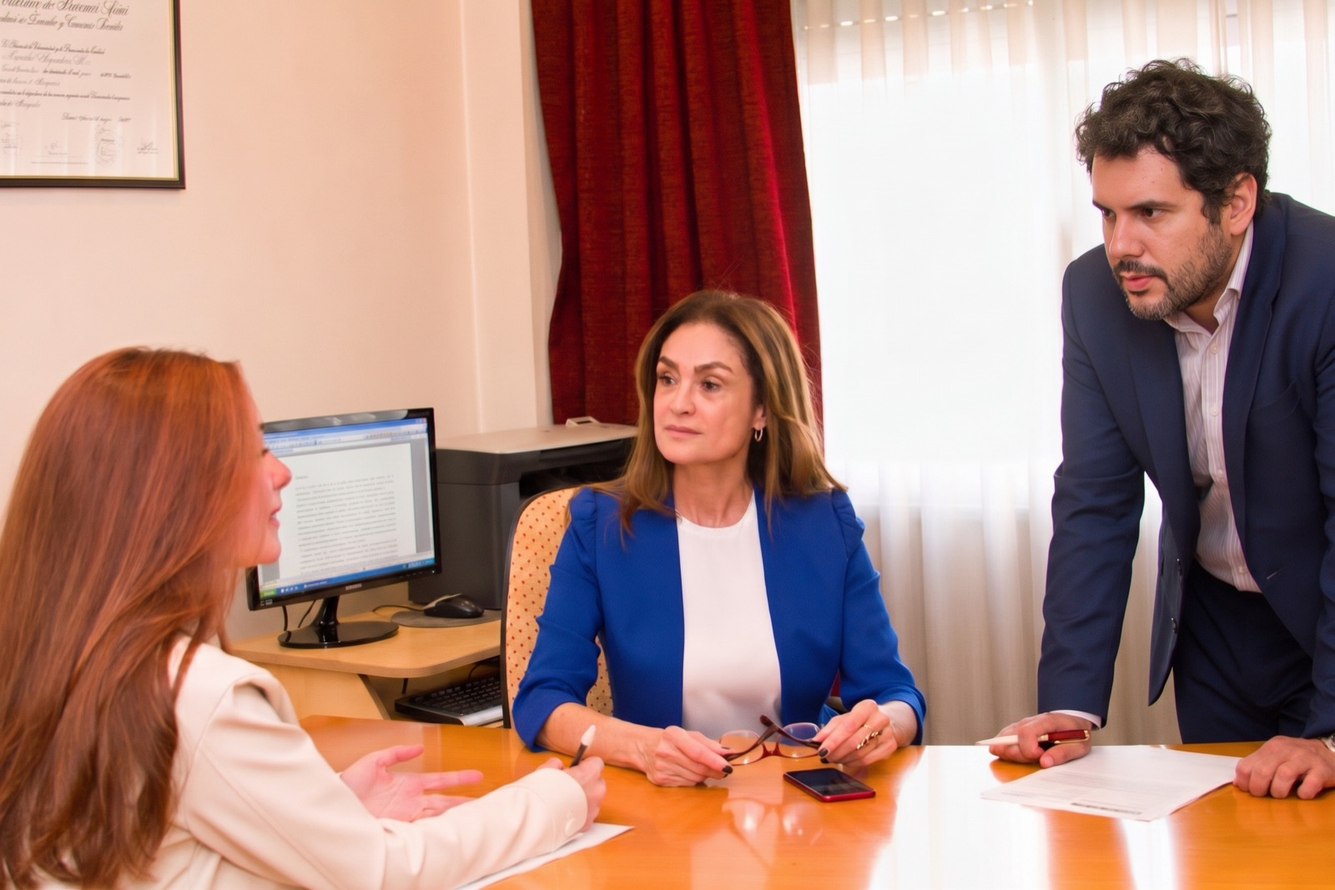
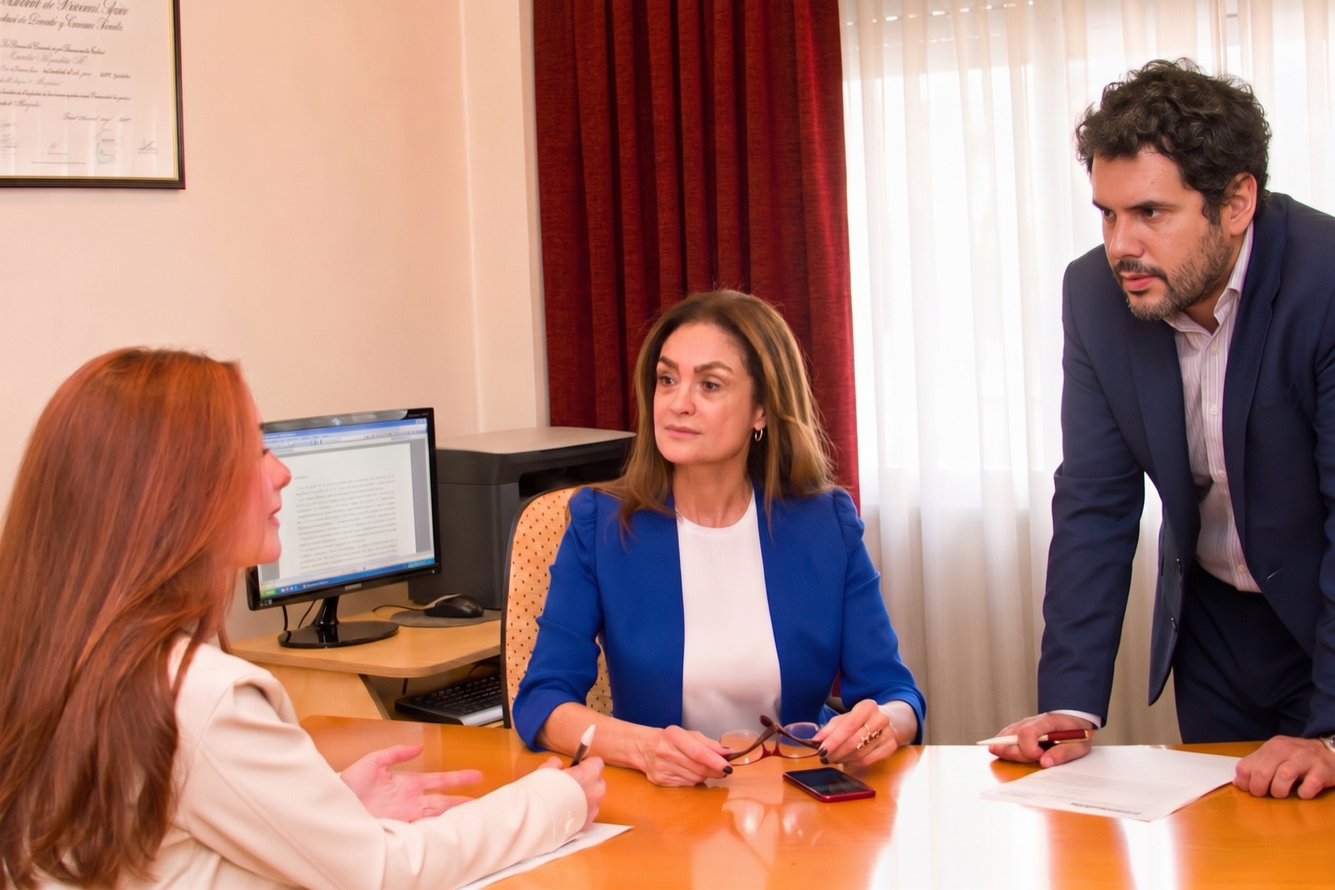
Estudio Ali B: solo WhatsApp al celular, foto de reunion nueva
El fijo (011) 4569-0939 ya no existe. Fuera todos los links tel:, los
botones Llamar y las menciones de telefono: la unica via de contacto es
WhatsApp. El numero pasa a formato celular (5491145690939, con el 9).
Foto de la reunion reemplazada por la ultima version.
La A esta descartada: solo se le corrigio el numero para no dejarla con
links rotos en produccion.

diff --git a/demos/estudio-ali/b/index.html b/demos/estudio-ali/b/index.html
@@ -265,7 +265,7 @@ footer.pie a{color:var(--ink);text-decoration:none}
 <header><div class="wrap">
   <a class="logo" href="#"><img class="sello" src="/demos/estudio-ali/fotos/isologo.jpg" alt="Estudio Jurídico Ali &amp; Asociados"><span>Estudio Ali &amp; Asociados<small>Derecho Laboral · A.R.T</small></span></a>
   <nav class="menu"><a href="#areas">Áreas de práctica</a><a href="#acerca">Acerca de</a><a href="#titular">Titular</a><a href="#sedes">Sedes</a></nav>
-  <a class="btn wsp" href="https://wa.me/541145690939?text=Hola%2C%20quiero%20hacer%20una%20consulta." target="_blank" rel="noopener">Consultar</a>
+  <a class="btn wsp" href="https://wa.me/5491145690939?text=Hola%2C%20quiero%20hacer%20una%20consulta." target="_blank" rel="noopener">Consultar</a>
 </div></header>
 <main>
 <div class="wrap">
@@ -274,7 +274,7 @@ footer.pie a{color:var(--ink);text-decoration:none}
     <span class="chip"><i></i>Consultas gratuitas para los trabajadores</span>
     <h1>Protegiendo tus derechos laborales <span>con experiencia y dedicación.</span></h1>
     <p class="lead">Estudio Jurídico Ali &amp; Asociados, especializado en Derecho Laboral y A.R.T.</p>
-    <div class="acciones"><a class="btn wsp" href="https://wa.me/541145690939?text=Hola%2C%20quiero%20hacer%20una%20consulta." target="_blank" rel="noopener"><svg viewBox="0 0 32 32"><path d="M16 3C9.4 3 4 8.3 4 14.9c0 2.1.6 4.1 1.6 5.9L4 29l8.4-1.6c1.7.9 3.6 1.4 5.6 1.4 6.6 0 12-5.3 12-11.9S22.6 3 16 3zm0 21.8c-1.8 0-3.5-.5-5-1.3l-.4-.2-5 1 1-4.8-.2-.4c-1-1.6-1.5-3.4-1.5-5.2 0-5.5 4.5-9.9 10-9.9s10 4.4 10 9.9-4.4 9.9-9.9 9.9zm5.5-7.4c-.3-.2-1.8-.9-2-1-.3-.1-.5-.2-.7.2-.2.3-.8 1-.9 1.2-.2.2-.3.2-.6.1-.3-.2-1.3-.5-2.4-1.5-.9-.8-1.5-1.8-1.7-2.1-.2-.3 0-.5.1-.6l.5-.5c.1-.2.2-.3.3-.5.1-.2 0-.4 0-.5l-1-2.3c-.2-.6-.5-.5-.7-.5h-.6c-.2 0-.5.1-.8.4-.3.3-1 1-1 2.5s1.1 2.9 1.2 3.1c.2.2 2.1 3.2 5.1 4.5.7.3 1.3.5 1.7.6.7.2 1.4.2 1.9.1.6-.1 1.8-.7 2-1.4.3-.7.3-1.3.2-1.4-.1-.1-.3-.2-.6-.4z"/></svg>Escribir por WhatsApp</a><span class="o">o llamá al <a href="tel:+541145690939">(011) 4569-0939</a></span></div>
+    <div class="acciones"><a class="btn wsp" href="https://wa.me/5491145690939?text=Hola%2C%20quiero%20hacer%20una%20consulta." target="_blank" rel="noopener"><svg viewBox="0 0 32 32"><path d="M16 3C9.4 3 4 8.3 4 14.9c0 2.1.6 4.1 1.6 5.9L4 29l8.4-1.6c1.7.9 3.6 1.4 5.6 1.4 6.6 0 12-5.3 12-11.9S22.6 3 16 3zm0 21.8c-1.8 0-3.5-.5-5-1.3l-.4-.2-5 1 1-4.8-.2-.4c-1-1.6-1.5-3.4-1.5-5.2 0-5.5 4.5-9.9 10-9.9s10 4.4 10 9.9-4.4 9.9-9.9 9.9zm5.5-7.4c-.3-.2-1.8-.9-2-1-.3-.1-.5-.2-.7.2-.2.3-.8 1-.9 1.2-.2.2-.3.2-.6.1-.3-.2-1.3-.5-2.4-1.5-.9-.8-1.5-1.8-1.7-2.1-.2-.3 0-.5.1-.6l.5-.5c.1-.2.2-.3.3-.5.1-.2 0-.4 0-.5l-1-2.3c-.2-.6-.5-.5-.7-.5h-.6c-.2 0-.5.1-.8.4-.3.3-1 1-1 2.5s1.1 2.9 1.2 3.1c.2.2 2.1 3.2 5.1 4.5.7.3 1.3.5 1.7.6.7.2 1.4.2 1.9.1.6-.1 1.8-.7 2-1.4.3-.7.3-1.3.2-1.4-.1-.1-.3-.2-.6-.4z"/></svg>Escribir por WhatsApp</a></div>
     <div class="chips"><span class="chip"><i></i>Total confidencialidad</span><span class="chip"><i></i>Más de 30 años</span><span class="chip"><i></i>Abogada UBA</span><span class="chip"><i></i>CABA y Sourigues</span></div>
    </div>
    <figure class="hero-retrato">
@@ -292,12 +292,12 @@ footer.pie a{color:var(--ink);text-decoration:none}
 <div class="wrap"><section id="areas">
   <h2 class="sec">Áreas de práctica</h2>
   <p class="sec-sub">Tocá el área que necesitás y se abre WhatsApp con el mensaje ya escrito.</p>
-  <div class="sits"><a class="sit" href="https://wa.me/541145690939?text=Hola%2C%20quiero%20hacer%20una%20consulta%20de%20derecho%20laboral." target="_blank" rel="noopener"><div class="ico"><svg viewBox="0 0 24 24"><rect x="3" y="7" width="18" height="13" rx="2"/><path d="M8 7V5a2 2 0 0 1 2-2h4a2 2 0 0 1 2 2v2M3 13h18"/></svg></div><h3>Derecho Laboral</h3><p>Nuestro equipo, especializado en derecho laboral, accidentes de trabajo y enfermedades laborales, brinda asesoramiento integral con total confidencialidad. Defendemos los derechos de nuestros clientes y ofrecemos consultas gratuitas para los trabajadores.</p><span class="ir">Consultar por esta área →</span></a>
-<a class="sit" href="https://wa.me/541145690939?text=Hola%2C%20quiero%20hacer%20una%20consulta%20de%20derecho%20previsional." target="_blank" rel="noopener"><div class="ico"><svg viewBox="0 0 24 24"><circle cx="12" cy="12" r="9"/><path d="M12 7v5l3 2"/></svg></div><h3>Derecho Previsional</h3><p>Nuestra tarea en el área previsional está destinada a arbitrar la correcta liquidación de jubilaciones y pensiones, reajuste del haber jubilatorio, cálculo del haber inicial, moratoria previsional y el reconocimiento de servicios para presentar en otras cajas previsionales. Gestiones ante la ANSES e IPS.</p><span class="ir">Consultar por esta área →</span></a>
-<a class="sit" href="https://wa.me/541145690939?text=Hola%2C%20quiero%20hacer%20una%20consulta%20de%20derecho%20de%20familia." target="_blank" rel="noopener"><div class="ico"><svg viewBox="0 0 24 24"><path d="M12 21s-7-4.5-7-10a4 4 0 0 1 7-2.5A4 4 0 0 1 19 11c0 5.5-7 10-7 10z"/></svg></div><h3>Derecho de Familia</h3><p>Lo acompañaremos proponiéndole soluciones prácticas y ajustadas a cada caso en particular, trabajando de manera dedicada, estratégica y diligente, tanto en el ámbito judicial como extrajudicial, mediante acuerdos y negociaciones con asistencia personalizada, priorizando siempre a los menores y el manejo de las relaciones humanas en temas tan sensibles.</p><span class="ir">Consultar por esta área →</span></a>
-<a class="sit" href="https://wa.me/541145690939?text=Hola%2C%20quiero%20hacer%20una%20consulta%20de%20derecho%20civil." target="_blank" rel="noopener"><div class="ico"><svg viewBox="0 0 24 24"><path d="M14 3H6a2 2 0 0 0-2 2v14a2 2 0 0 0 2 2h12a2 2 0 0 0 2-2V9z"/><path d="M14 3v6h6M9 14h6M9 17h4"/></svg></div><h3>Derecho Civil</h3><p>Nuestro equipo está capacitado para abarcar toda la problemática relativa a la finalidad del derecho civil, o sea la preservación y defensa de los intereses de la persona, a nivel patrimonial y moral.</p><p class="lista">Accidentes de tránsito · Daños y perjuicios · Sucesiones · Contratos</p><span class="ir">Consultar por esta área →</span></a>
-<a class="sit" href="https://wa.me/541145690939?text=Hola%2C%20quiero%20hacer%20una%20consulta%20de%20derecho%20penal." target="_blank" rel="noopener"><div class="ico"><svg viewBox="0 0 24 24"><path d="M12 3l8 3v6c0 5-3.5 8-8 9-4.5-1-8-4-8-9V6z"/></svg></div><h3>Derecho Penal</h3><p>Si Ud. se encuentra vinculado a un proceso penal o necesita impulsar una denuncia o querella criminal podemos dar respuesta a su necesidad. Nuestro equipo cuenta con abogados especializados en materia penal, procesal penal y criminología. La consulta es personalizada, confidencial y mantenemos absoluta reserva.</p><span class="ir">Consultar por esta área →</span></a>
-<a class="sit" href="https://wa.me/541145690939?text=Hola%2C%20quiero%20hacer%20una%20consulta%20de%20derecho%20comercial." target="_blank" rel="noopener"><div class="ico"><svg viewBox="0 0 24 24"><path d="M3 21h18M5 21V8l7-5 7 5v13M9 21v-6h6v6"/></svg></div><h3>Derecho Comercial</h3><p>Brindamos servicios en las siguientes áreas:</p><p class="lista">Constitución de sociedades · Conflictos societarios · Fideicomisos · Ejecución de deudas · Quiebras · Concursos preventivos · Contratos comerciales · Contratos de alquiler · Relaciones de consumo y defensa al consumidor</p><span class="ir">Consultar por esta área →</span></a>
+  <div class="sits"><a class="sit" href="https://wa.me/5491145690939?text=Hola%2C%20quiero%20hacer%20una%20consulta%20de%20derecho%20laboral." target="_blank" rel="noopener"><div class="ico"><svg viewBox="0 0 24 24"><rect x="3" y="7" width="18" height="13" rx="2"/><path d="M8 7V5a2 2 0 0 1 2-2h4a2 2 0 0 1 2 2v2M3 13h18"/></svg></div><h3>Derecho Laboral</h3><p>Nuestro equipo, especializado en derecho laboral, accidentes de trabajo y enfermedades laborales, brinda asesoramiento integral con total confidencialidad. Defendemos los derechos de nuestros clientes y ofrecemos consultas gratuitas para los trabajadores.</p><span class="ir">Consultar por esta área →</span></a>
+<a class="sit" href="https://wa.me/5491145690939?text=Hola%2C%20quiero%20hacer%20una%20consulta%20de%20derecho%20previsional." target="_blank" rel="noopener"><div class="ico"><svg viewBox="0 0 24 24"><circle cx="12" cy="12" r="9"/><path d="M12 7v5l3 2"/></svg></div><h3>Derecho Previsional</h3><p>Nuestra tarea en el área previsional está destinada a arbitrar la correcta liquidación de jubilaciones y pensiones, reajuste del haber jubilatorio, cálculo del haber inicial, moratoria previsional y el reconocimiento de servicios para presentar en otras cajas previsionales. Gestiones ante la ANSES e IPS.</p><span class="ir">Consultar por esta área →</span></a>
+<a class="sit" href="https://wa.me/5491145690939?text=Hola%2C%20quiero%20hacer%20una%20consulta%20de%20derecho%20de%20familia." target="_blank" rel="noopener"><div class="ico"><svg viewBox="0 0 24 24"><path d="M12 21s-7-4.5-7-10a4 4 0 0 1 7-2.5A4 4 0 0 1 19 11c0 5.5-7 10-7 10z"/></svg></div><h3>Derecho de Familia</h3><p>Lo acompañaremos proponiéndole soluciones prácticas y ajustadas a cada caso en particular, trabajando de manera dedicada, estratégica y diligente, tanto en el ámbito judicial como extrajudicial, mediante acuerdos y negociaciones con asistencia personalizada, priorizando siempre a los menores y el manejo de las relaciones humanas en temas tan sensibles.</p><span class="ir">Consultar por esta área →</span></a>
+<a class="sit" href="https://wa.me/5491145690939?text=Hola%2C%20quiero%20hacer%20una%20consulta%20de%20derecho%20civil." target="_blank" rel="noopener"><div class="ico"><svg viewBox="0 0 24 24"><path d="M14 3H6a2 2 0 0 0-2 2v14a2 2 0 0 0 2 2h12a2 2 0 0 0 2-2V9z"/><path d="M14 3v6h6M9 14h6M9 17h4"/></svg></div><h3>Derecho Civil</h3><p>Nuestro equipo está capacitado para abarcar toda la problemática relativa a la finalidad del derecho civil, o sea la preservación y defensa de los intereses de la persona, a nivel patrimonial y moral.</p><p class="lista">Accidentes de tránsito · Daños y perjuicios · Sucesiones · Contratos</p><span class="ir">Consultar por esta área →</span></a>
+<a class="sit" href="https://wa.me/5491145690939?text=Hola%2C%20quiero%20hacer%20una%20consulta%20de%20derecho%20penal." target="_blank" rel="noopener"><div class="ico"><svg viewBox="0 0 24 24"><path d="M12 3l8 3v6c0 5-3.5 8-8 9-4.5-1-8-4-8-9V6z"/></svg></div><h3>Derecho Penal</h3><p>Si Ud. se encuentra vinculado a un proceso penal o necesita impulsar una denuncia o querella criminal podemos dar respuesta a su necesidad. Nuestro equipo cuenta con abogados especializados en materia penal, procesal penal y criminología. La consulta es personalizada, confidencial y mantenemos absoluta reserva.</p><span class="ir">Consultar por esta área →</span></a>
+<a class="sit" href="https://wa.me/5491145690939?text=Hola%2C%20quiero%20hacer%20una%20consulta%20de%20derecho%20comercial." target="_blank" rel="noopener"><div class="ico"><svg viewBox="0 0 24 24"><path d="M3 21h18M5 21V8l7-5 7 5v13M9 21v-6h6v6"/></svg></div><h3>Derecho Comercial</h3><p>Brindamos servicios en las siguientes áreas:</p><p class="lista">Constitución de sociedades · Conflictos societarios · Fideicomisos · Ejecución de deudas · Quiebras · Concursos preventivos · Contratos comerciales · Contratos de alquiler · Relaciones de consumo y defensa al consumidor</p><span class="ir">Consultar por esta área →</span></a>
 </div>
 </section></div>
 <div class="pasos"><div class="wrap"><section>
@@ -319,13 +319,13 @@ footer.pie a{color:var(--ink);text-decoration:none}
   <section id="sedes">
     <h2 class="sec">Nos encontrás en</h2>
     <div class="sedes"><div class="sede"><span class="chip"><i></i>Casa central</span><h3>Lavalle 1546</h3><p>CABA</p><a class="mapa" href="https://www.google.com/maps/search/?api=1&query=Lavalle%201546%2C%20CABA" target="_blank" rel="noopener">Cómo llegar →</a></div><div class="sede"><span class="chip"><i></i>Sede</span><h3>Av. Antártida Argentina 644</h3><p>Sourigues</p><a class="mapa" href="https://www.google.com/maps/search/?api=1&query=Av.%20Ant%C3%A1rtida%20Argentina%20644%2C%20Sourigues%2C%20Berazategui" target="_blank" rel="noopener">Cómo llegar →</a></div></div>
-    <p class="horario"><b>Horario:</b> 09:00 a 18:00 · <b>Teléfono:</b> <a href="tel:+541145690939">(011) 4569-0939</a> · <b>Mail de contacto:</b> <a href="mailto:m.ali@estudioali.com.ar">m.ali@estudioali.com.ar</a></p>
+    <p class="horario"><b>Horario:</b> 09:00 a 18:00 · <b>Mail de contacto:</b> <a href="mailto:m.ali@estudioali.com.ar">m.ali@estudioali.com.ar</a></p>
   </section>
   <figure class="foto-estudio"><img src="/demos/estudio-ali/fotos/estudio-amplio.jpg" alt="El estudio en Lavalle 1546"><figcaption>El estudio, en Lavalle 1546</figcaption></figure>
   <section class="cierre" id="contacto"><div class="cierre-caja">
     <h2>Comunícate con nosotros</h2>
     <p>Envíanos tu consulta. Ofrecemos consultas gratuitas para los trabajadores.</p>
-    <div class="acciones"><a class="btn ambar" href="https://wa.me/541145690939?text=Hola%2C%20quiero%20hacer%20una%20consulta." target="_blank" rel="noopener">Escribir por WhatsApp</a><a class="btn out" href="tel:+541145690939">Llamar al (011) 4569-0939</a></div>
+    <div class="acciones"><a class="btn ambar" href="https://wa.me/5491145690939?text=Hola%2C%20quiero%20hacer%20una%20consulta." target="_blank" rel="noopener">Escribir por WhatsApp</a></div>
     <p class="mail">Mail de contacto: <a href="mailto:m.ali@estudioali.com.ar">m.ali@estudioali.com.ar</a> · Instagram <a href="https://instagram.com/dra.marcela_ali" target="_blank" rel="noopener">dra.marcela_ali</a> · Facebook: Estudio Ali &amp; Asociados</p>
   </div></section>
 </div>
@@ -334,6 +334,6 @@ footer.pie a{color:var(--ink);text-decoration:none}
   <div><b>Estudio Ali &amp; Asociados</b> · Derecho Laboral A.R.T<br>Lavalle 1546, CABA · Av. Antártida Argentina 644, Sourigues</div>
   <div>Propuesta de diseño B · <a href="https://deceroauno.com.ar">De Cero a Uno</a></div>
 </div></footer>
-<a class="wsp-flotante" href="https://wa.me/541145690939?text=Hola%2C%20quiero%20hacer%20una%20consulta." target="_blank" rel="noopener" aria-label="Consultar por WhatsApp"><svg viewBox="0 0 24 24" aria-hidden="true"><path d="M17.47 14.38c-.3-.15-1.75-.86-2.02-.96-.27-.1-.47-.15-.67.15-.2.3-.77.96-.94 1.16-.17.2-.35.22-.64.08-.3-.15-1.25-.46-2.38-1.47-.88-.78-1.47-1.75-1.65-2.05-.17-.3-.02-.46.13-.6.13-.13.3-.35.45-.52.15-.17.2-.3.3-.5.1-.2.05-.37-.02-.52-.08-.15-.67-1.6-.92-2.2-.24-.57-.49-.5-.67-.5l-.57-.01c-.2 0-.52.07-.79.37-.27.3-1.04 1.02-1.04 2.47 0 1.46 1.06 2.87 1.21 3.07.15.2 2.09 3.2 5.07 4.48.71.3 1.26.49 1.69.63.71.22 1.36.19 1.87.12.57-.09 1.75-.72 2-1.41.25-.69.25-1.29.17-1.41-.07-.13-.27-.2-.57-.35M12.05 21.8h-.02c-1.75 0-3.48-.47-4.99-1.36l-.36-.21-3.71.97.99-3.62-.23-.37a9.86 9.86 0 0 1-1.51-5.26c0-5.45 4.44-9.88 9.9-9.88 2.64 0 5.12 1.03 6.99 2.9a9.82 9.82 0 0 1 2.89 6.99c0 5.45-4.44 9.88-9.89 9.88M20.52 3.45A11.78 11.78 0 0 0 12.05 0C5.5 0 .17 5.33.17 11.88c0 2.1.55 4.14 1.59 5.95L.07 24l6.33-1.66a11.86 11.86 0 0 0 5.65 1.44h.01c6.55 0 11.88-5.33 11.88-11.88 0-3.17-1.24-6.16-3.48-8.4"/></svg><span>Consultar</span></a>
+<a class="wsp-flotante" href="https://wa.me/5491145690939?text=Hola%2C%20quiero%20hacer%20una%20consulta." target="_blank" rel="noopener" aria-label="Consultar por WhatsApp"><svg viewBox="0 0 24 24" aria-hidden="true"><path d="M17.47 14.38c-.3-.15-1.75-.86-2.02-.96-.27-.1-.47-.15-.67.15-.2.3-.77.96-.94 1.16-.17.2-.35.22-.64.08-.3-.15-1.25-.46-2.38-1.47-.88-.78-1.47-1.75-1.65-2.05-.17-.3-.02-.46.13-.6.13-.13.3-.35.45-.52.15-.17.2-.3.3-.5.1-.2.05-.37-.02-.52-.08-.15-.67-1.6-.92-2.2-.24-.57-.49-.5-.67-.5l-.57-.01c-.2 0-.52.07-.79.37-.27.3-1.04 1.02-1.04 2.47 0 1.46 1.06 2.87 1.21 3.07.15.2 2.09 3.2 5.07 4.48.71.3 1.26.49 1.69.63.71.22 1.36.19 1.87.12.57-.09 1.75-.72 2-1.41.25-.69.25-1.29.17-1.41-.07-.13-.27-.2-.57-.35M12.05 21.8h-.02c-1.75 0-3.48-.47-4.99-1.36l-.36-.21-3.71.97.99-3.62-.23-.37a9.86 9.86 0 0 1-1.51-5.26c0-5.45 4.44-9.88 9.9-9.88 2.64 0 5.12 1.03 6.99 2.9a9.82 9.82 0 0 1 2.89 6.99c0 5.45-4.44 9.88-9.89 9.88M20.52 3.45A11.78 11.78 0 0 0 12.05 0C5.5 0 .17 5.33.17 11.88c0 2.1.55 4.14 1.59 5.95L.07 24l6.33-1.66a11.86 11.86 0 0 0 5.65 1.44h.01c6.55 0 11.88-5.33 11.88-11.88 0-3.17-1.24-6.16-3.48-8.4"/></svg><span>Consultar</span></a>
 </body>
 </html>

diff --git a/demos/estudio-ali/a/index.html b/demos/estudio-ali/a/index.html
@@ -238,7 +238,7 @@ header .btn{white-space:nowrap}
 <body>
 
 <div class="prop-bar"><span>Propuesta <b>A · Lavalle</b> de 2 para Estudio Ali &amp; Asociados</span><nav><a class="on" href="/demos/estudio-ali/a">A</a><a href="/demos/estudio-ali/b">B</a><a href="/demos/estudio-ali">Ver las dos</a></nav></div>
-<div class="topbar"><div class="wrap"><span>Casa central: Lavalle 1546, CABA · Sedes en Sourigues · Horario: 09:00 a 18:00</span><span><a href="tel:+541145690939">(011) 4569-0939</a> · <a href="mailto:m.ali@estudioali.com.ar">m.ali@estudioali.com.ar</a></span></div></div>
+<div class="topbar"><div class="wrap"><span>Casa central: Lavalle 1546, CABA · Sedes en Sourigues · Horario: 09:00 a 18:00</span><span><a href="mailto:m.ali@estudioali.com.ar">m.ali@estudioali.com.ar</a></span></div></div>
 <header><div class="wrap">
   <a class="logo" href="#"><img src="/demos/estudio-ali/fotos/isologo.jpg" alt="Estudio Jurídico Ali &amp; Asociados"><span>Ali <em>&amp;</em> Asociados<small>Derecho laboral · A.R.T</small></span></a>
   <nav class="menu"><a href="#areas">Áreas</a><a href="#acerca">El estudio</a><a href="#titular">La Dra. Ali</a><a href="#contacto">Contacto</a></nav>
@@ -250,7 +250,7 @@ header .btn{white-space:nowrap}
     <p class="kicker">Especializado en Derecho Laboral A.R.T</p>
     <h1>Protegiendo tus derechos laborales <em>con experiencia y dedicación.</em></h1>
     <p class="lead">Nuestro equipo, especializado en derecho laboral, accidentes de trabajo y enfermedades laborales, brinda asesoramiento integral con total confidencialidad.</p>
-    <div class="acciones"><a class="btn wsp" href="https://wa.me/541145690939?text=Hola%2C%20quiero%20hacer%20una%20consulta." target="_blank" rel="noopener"><svg viewBox="0 0 32 32"><path d="M16 3C9.4 3 4 8.3 4 14.9c0 2.1.6 4.1 1.6 5.9L4 29l8.4-1.6c1.7.9 3.6 1.4 5.6 1.4 6.6 0 12-5.3 12-11.9S22.6 3 16 3zm0 21.8c-1.8 0-3.5-.5-5-1.3l-.4-.2-5 1 1-4.8-.2-.4c-1-1.6-1.5-3.4-1.5-5.2 0-5.5 4.5-9.9 10-9.9s10 4.4 10 9.9-4.4 9.9-9.9 9.9zm5.5-7.4c-.3-.2-1.8-.9-2-1-.3-.1-.5-.2-.7.2-.2.3-.8 1-.9 1.2-.2.2-.3.2-.6.1-.3-.2-1.3-.5-2.4-1.5-.9-.8-1.5-1.8-1.7-2.1-.2-.3 0-.5.1-.6l.5-.5c.1-.2.2-.3.3-.5.1-.2 0-.4 0-.5l-1-2.3c-.2-.6-.5-.5-.7-.5h-.6c-.2 0-.5.1-.8.4-.3.3-1 1-1 2.5s1.1 2.9 1.2 3.1c.2.2 2.1 3.2 5.1 4.5.7.3 1.3.5 1.7.6.7.2 1.4.2 1.9.1.6-.1 1.8-.7 2-1.4.3-.7.3-1.3.2-1.4-.1-.1-.3-.2-.6-.4z"/></svg>Consultar por WhatsApp</a><a class="btn out" href="tel:+541145690939">Llamar al (011) 4569-0939</a></div>
+    <div class="acciones"><a class="btn wsp" href="https://wa.me/5491145690939?text=Hola%2C%20quiero%20hacer%20una%20consulta." target="_blank" rel="noopener"><svg viewBox="0 0 32 32"><path d="M16 3C9.4 3 4 8.3 4 14.9c0 2.1.6 4.1 1.6 5.9L4 29l8.4-1.6c1.7.9 3.6 1.4 5.6 1.4 6.6 0 12-5.3 12-11.9S22.6 3 16 3zm0 21.8c-1.8 0-3.5-.5-5-1.3l-.4-.2-5 1 1-4.8-.2-.4c-1-1.6-1.5-3.4-1.5-5.2 0-5.5 4.5-9.9 10-9.9s10 4.4 10 9.9-4.4 9.9-9.9 9.9zm5.5-7.4c-.3-.2-1.8-.9-2-1-.3-.1-.5-.2-.7.2-.2.3-.8 1-.9 1.2-.2.2-.3.2-.6.1-.3-.2-1.3-.5-2.4-1.5-.9-.8-1.5-1.8-1.7-2.1-.2-.3 0-.5.1-.6l.5-.5c.1-.2.2-.3.3-.5.1-.2 0-.4 0-.5l-1-2.3c-.2-.6-.5-.5-.7-.5h-.6c-.2 0-.5.1-.8.4-.3.3-1 1-1 2.5s1.1 2.9 1.2 3.1c.2.2 2.1 3.2 5.1 4.5.7.3 1.3.5 1.7.6.7.2 1.4.2 1.9.1.6-.1 1.8-.7 2-1.4.3-.7.3-1.3.2-1.4-.1-.1-.3-.2-.6-.4z"/></svg>Consultar por WhatsApp</a></div>
     <div class="datos"><div><b>+30</b><span>años ejerciendo la profesión</span></div><div><b>UBA</b><span>egresada en 1992</span></div><div><b>2000</b><span>fundación del estudio</span></div><div><b>2</b><span>sedes: CABA y Sourigues</span></div></div>
   </div>
   <figure class="retrato"><div class="retrato-img"><img src="/demos/estudio-ali/fotos/marcela-retrato.jpg" alt="Dra. Marcela A. Ali, titular del estudio"></div><figcaption><b>Dra. Marcela A. Ali</b>Titular del Estudio · Abogada (UBA) · Maestría en Derecho Laboral</figcaption></figure>
@@ -265,12 +265,12 @@ header .btn{white-space:nowrap}
 <div class="wrap"><section id="areas">
   <p class="kicker">Áreas de práctica</p>
   <h2 class="sec">Defendemos los derechos <em>de nuestros clientes.</em></h2>
-  <div class="situaciones"><a class="sit destacada" href="https://wa.me/541145690939?text=Hola%2C%20quiero%20hacer%20una%20consulta%20de%20derecho%20laboral." target="_blank" rel="noopener"><span class="n">01</span><h3>Derecho Laboral</h3><p>Nuestro equipo, especializado en derecho laboral, accidentes de trabajo y enfermedades laborales, brinda asesoramiento integral con total confidencialidad. Defendemos los derechos de nuestros clientes y ofrecemos consultas gratuitas para los trabajadores.</p><span class="ir">Consultar por esta área →</span></a>
-<a class="sit" href="https://wa.me/541145690939?text=Hola%2C%20quiero%20hacer%20una%20consulta%20de%20derecho%20previsional." target="_blank" rel="noopener"><span class="n">02</span><h3>Derecho Previsional</h3><p>Nuestra tarea en el área previsional está destinada a arbitrar la correcta liquidación de jubilaciones y pensiones, reajuste del haber jubilatorio, cálculo del haber inicial, moratoria previsional y el reconocimiento de servicios para presentar en otras cajas previsionales. Gestiones ante la ANSES e IPS.</p><span class="ir">Consultar por esta área →</span></a>
-<a class="sit" href="https://wa.me/541145690939?text=Hola%2C%20quiero%20hacer%20una%20consulta%20de%20derecho%20de%20familia." target="_blank" rel="noopener"><span class="n">03</span><h3>Derecho de Familia</h3><p>Lo acompañaremos proponiéndole soluciones prácticas y ajustadas a cada caso en particular, trabajando de manera dedicada, estratégica y diligente, tanto en el ámbito judicial como extrajudicial, mediante acuerdos y negociaciones con asistencia personalizada, priorizando siempre a los menores y el manejo de las relaciones humanas en temas tan sensibles.</p><span class="ir">Consultar por esta área →</span></a>
-<a class="sit" href="https://wa.me/541145690939?text=Hola%2C%20quiero%20hacer%20una%20consulta%20de%20derecho%20civil." target="_blank" rel="noopener"><span class="n">04</span><h3>Derecho Civil</h3><p>Nuestro equipo está capacitado para abarcar toda la problemática relativa a la finalidad del derecho civil, o sea la preservación y defensa de los intereses de la persona, a nivel patrimonial y moral.</p><p class="lista">Accidentes de tránsito · Daños y perjuicios · Sucesiones · Contratos</p><span class="ir">Consultar por esta área →</span></a>
-<a class="sit" href="https://wa.me/541145690939?text=Hola%2C%20quiero%20hacer%20una%20consulta%20de%20derecho%20penal." target="_blank" rel="noopener"><span class="n">05</span><h3>Derecho Penal</h3><p>Si Ud. se encuentra vinculado a un proceso penal o necesita impulsar una denuncia o querella criminal podemos dar respuesta a su necesidad. Nuestro equipo cuenta con abogados especializados en materia penal, procesal penal y criminología. La consulta es personalizada, confidencial y mantenemos absoluta reserva.</p><span class="ir">Consultar por esta área →</span></a>
-<a class="sit" href="https://wa.me/541145690939?text=Hola%2C%20quiero%20hacer%20una%20consulta%20de%20derecho%20comercial." target="_blank" rel="noopener"><span class="n">06</span><h3>Derecho Comercial</h3><p>Brindamos servicios en las siguientes áreas:</p><p class="lista">Constitución de sociedades · Conflictos societarios · Fideicomisos · Ejecución de deudas · Quiebras · Concursos preventivos · Contratos comerciales · Contratos de alquiler · Relaciones de consumo y defensa al consumidor</p><span class="ir">Consultar por esta área →</span></a>
+  <div class="situaciones"><a class="sit destacada" href="https://wa.me/5491145690939?text=Hola%2C%20quiero%20hacer%20una%20consulta%20de%20derecho%20laboral." target="_blank" rel="noopener"><span class="n">01</span><h3>Derecho Laboral</h3><p>Nuestro equipo, especializado en derecho laboral, accidentes de trabajo y enfermedades laborales, brinda asesoramiento integral con total confidencialidad. Defendemos los derechos de nuestros clientes y ofrecemos consultas gratuitas para los trabajadores.</p><span class="ir">Consultar por esta área →</span></a>
+<a class="sit" href="https://wa.me/5491145690939?text=Hola%2C%20quiero%20hacer%20una%20consulta%20de%20derecho%20previsional." target="_blank" rel="noopener"><span class="n">02</span><h3>Derecho Previsional</h3><p>Nuestra tarea en el área previsional está destinada a arbitrar la correcta liquidación de jubilaciones y pensiones, reajuste del haber jubilatorio, cálculo del haber inicial, moratoria previsional y el reconocimiento de servicios para presentar en otras cajas previsionales. Gestiones ante la ANSES e IPS.</p><span class="ir">Consultar por esta área →</span></a>
+<a class="sit" href="https://wa.me/5491145690939?text=Hola%2C%20quiero%20hacer%20una%20consulta%20de%20derecho%20de%20familia." target="_blank" rel="noopener"><span class="n">03</span><h3>Derecho de Familia</h3><p>Lo acompañaremos proponiéndole soluciones prácticas y ajustadas a cada caso en particular, trabajando de manera dedicada, estratégica y diligente, tanto en el ámbito judicial como extrajudicial, mediante acuerdos y negociaciones con asistencia personalizada, priorizando siempre a los menores y el manejo de las relaciones humanas en temas tan sensibles.</p><span class="ir">Consultar por esta área →</span></a>
+<a class="sit" href="https://wa.me/5491145690939?text=Hola%2C%20quiero%20hacer%20una%20consulta%20de%20derecho%20civil." target="_blank" rel="noopener"><span class="n">04</span><h3>Derecho Civil</h3><p>Nuestro equipo está capacitado para abarcar toda la problemática relativa a la finalidad del derecho civil, o sea la preservación y defensa de los intereses de la persona, a nivel patrimonial y moral.</p><p class="lista">Accidentes de tránsito · Daños y perjuicios · Sucesiones · Contratos</p><span class="ir">Consultar por esta área →</span></a>
+<a class="sit" href="https://wa.me/5491145690939?text=Hola%2C%20quiero%20hacer%20una%20consulta%20de%20derecho%20penal." target="_blank" rel="noopener"><span class="n">05</span><h3>Derecho Penal</h3><p>Si Ud. se encuentra vinculado a un proceso penal o necesita impulsar una denuncia o querella criminal podemos dar respuesta a su necesidad. Nuestro equipo cuenta con abogados especializados en materia penal, procesal penal y criminología. La consulta es personalizada, confidencial y mantenemos absoluta reserva.</p><span class="ir">Consultar por esta área →</span></a>
+<a class="sit" href="https://wa.me/5491145690939?text=Hola%2C%20quiero%20hacer%20una%20consulta%20de%20derecho%20comercial." target="_blank" rel="noopener"><span class="n">06</span><h3>Derecho Comercial</h3><p>Brindamos servicios en las siguientes áreas:</p><p class="lista">Constitución de sociedades · Conflictos societarios · Fideicomisos · Ejecución de deudas · Quiebras · Concursos preventivos · Contratos comerciales · Contratos de alquiler · Relaciones de consumo y defensa al consumidor</p><span class="ir">Consultar por esta área →</span></a>
 </div>
 </section></div>
 <div class="metodo" id="acerca"><div class="wrap"><section><div class="grid">
@@ -303,7 +303,7 @@ header .btn{white-space:nowrap}
   <p class="kicker" style="color:#D9B07A">Comunícate con nosotros</p>
   <h2>Envíanos <em>tu consulta.</em></h2>
   <p>Ofrecemos consultas gratuitas para los trabajadores. La consulta es personalizada, confidencial y mantenemos absoluta reserva.</p>
-  <div class="acciones"><a class="btn wsp" href="https://wa.me/541145690939?text=Hola%2C%20quiero%20hacer%20una%20consulta." target="_blank" rel="noopener">Escribir por WhatsApp</a><a class="btn out" href="tel:+541145690939">Llamar al (011) 4569-0939</a></div>
+  <div class="acciones"><a class="btn wsp" href="https://wa.me/5491145690939?text=Hola%2C%20quiero%20hacer%20una%20consulta." target="_blank" rel="noopener">Escribir por WhatsApp</a></div>
   <p class="mail">Mail de contacto: <a href="mailto:m.ali@estudioali.com.ar">m.ali@estudioali.com.ar</a> · Instagram <a href="https://instagram.com/dra.marcela_ali" target="_blank" rel="noopener">dra.marcela_ali</a> · Facebook: Estudio Ali &amp; Asociados</p>
 </div></section>
 </main>
@@ -311,6 +311,6 @@ header .btn{white-space:nowrap}
   <div><b>Estudio Ali &amp; Asociados</b><br>Lavalle 1546, CABA · Av. Antártida Argentina 644, Sourigues</div>
   <div>Propuesta de diseño A · <a href="https://deceroauno.com.ar">De Cero a Uno</a></div>
 </div></footer>
-<a class="wsp-flotante" href="https://wa.me/541145690939?text=Hola%2C%20quiero%20hacer%20una%20consulta." target="_blank" rel="noopener" aria-label="Consultar por WhatsApp"><svg viewBox="0 0 24 24" aria-hidden="true"><path d="M17.47 14.38c-.3-.15-1.75-.86-2.02-.96-.27-.1-.47-.15-.67.15-.2.3-.77.96-.94 1.16-.17.2-.35.22-.64.08-.3-.15-1.25-.46-2.38-1.47-.88-.78-1.47-1.75-1.65-2.05-.17-.3-.02-.46.13-.6.13-.13.3-.35.45-.52.15-.17.2-.3.3-.5.1-.2.05-.37-.02-.52-.08-.15-.67-1.6-.92-2.2-.24-.57-.49-.5-.67-.5l-.57-.01c-.2 0-.52.07-.79.37-.27.3-1.04 1.02-1.04 2.47 0 1.46 1.06 2.87 1.21 3.07.15.2 2.09 3.2 5.07 4.48.71.3 1.26.49 1.69.63.71.22 1.36.19 1.87.12.57-.09 1.75-.72 2-1.41.25-.69.25-1.29.17-1.41-.07-.13-.27-.2-.57-.35M12.05 21.8h-.02c-1.75 0-3.48-.47-4.99-1.36l-.36-.21-3.71.97.99-3.62-.23-.37a9.86 9.86 0 0 1-1.51-5.26c0-5.45 4.44-9.88 9.9-9.88 2.64 0 5.12 1.03 6.99 2.9a9.82 9.82 0 0 1 2.89 6.99c0 5.45-4.44 9.88-9.89 9.88M20.52 3.45A11.78 11.78 0 0 0 12.05 0C5.5 0 .17 5.33.17 11.88c0 2.1.55 4.14 1.59 5.95L.07 24l6.33-1.66a11.86 11.86 0 0 0 5.65 1.44h.01c6.55 0 11.88-5.33 11.88-11.88 0-3.17-1.24-6.16-3.48-8.4"/></svg><span>Consultar</span></a>
+<a class="wsp-flotante" href="https://wa.me/5491145690939?text=Hola%2C%20quiero%20hacer%20una%20consulta." target="_blank" rel="noopener" aria-label="Consultar por WhatsApp"><svg viewBox="0 0 24 24" aria-hidden="true"><path d="M17.47 14.38c-.3-.15-1.75-.86-2.02-.96-.27-.1-.47-.15-.67.15-.2.3-.77.96-.94 1.16-.17.2-.35.22-.64.08-.3-.15-1.25-.46-2.38-1.47-.88-.78-1.47-1.75-1.65-2.05-.17-.3-.02-.46.13-.6.13-.13.3-.35.45-.52.15-.17.2-.3.3-.5.1-.2.05-.37-.02-.52-.08-.15-.67-1.6-.92-2.2-.24-.57-.49-.5-.67-.5l-.57-.01c-.2 0-.52.07-.79.37-.27.3-1.04 1.02-1.04 2.47 0 1.46 1.06 2.87 1.21 3.07.15.2 2.09 3.2 5.07 4.48.71.3 1.26.49 1.69.63.71.22 1.36.19 1.87.12.57-.09 1.75-.72 2-1.41.25-.69.25-1.29.17-1.41-.07-.13-.27-.2-.57-.35M12.05 21.8h-.02c-1.75 0-3.48-.47-4.99-1.36l-.36-.21-3.71.97.99-3.62-.23-.37a9.86 9.86 0 0 1-1.51-5.26c0-5.45 4.44-9.88 9.9-9.88 2.64 0 5.12 1.03 6.99 2.9a9.82 9.82 0 0 1 2.89 6.99c0 5.45-4.44 9.88-9.89 9.88M20.52 3.45A11.78 11.78 0 0 0 12.05 0C5.5 0 .17 5.33.17 11.88c0 2.1.55 4.14 1.59 5.95L.07 24l6.33-1.66a11.86 11.86 0 0 0 5.65 1.44h.01c6.55 0 11.88-5.33 11.88-11.88 0-3.17-1.24-6.16-3.48-8.4"/></svg><span>Consultar</span></a>
 </body>
 </html>
